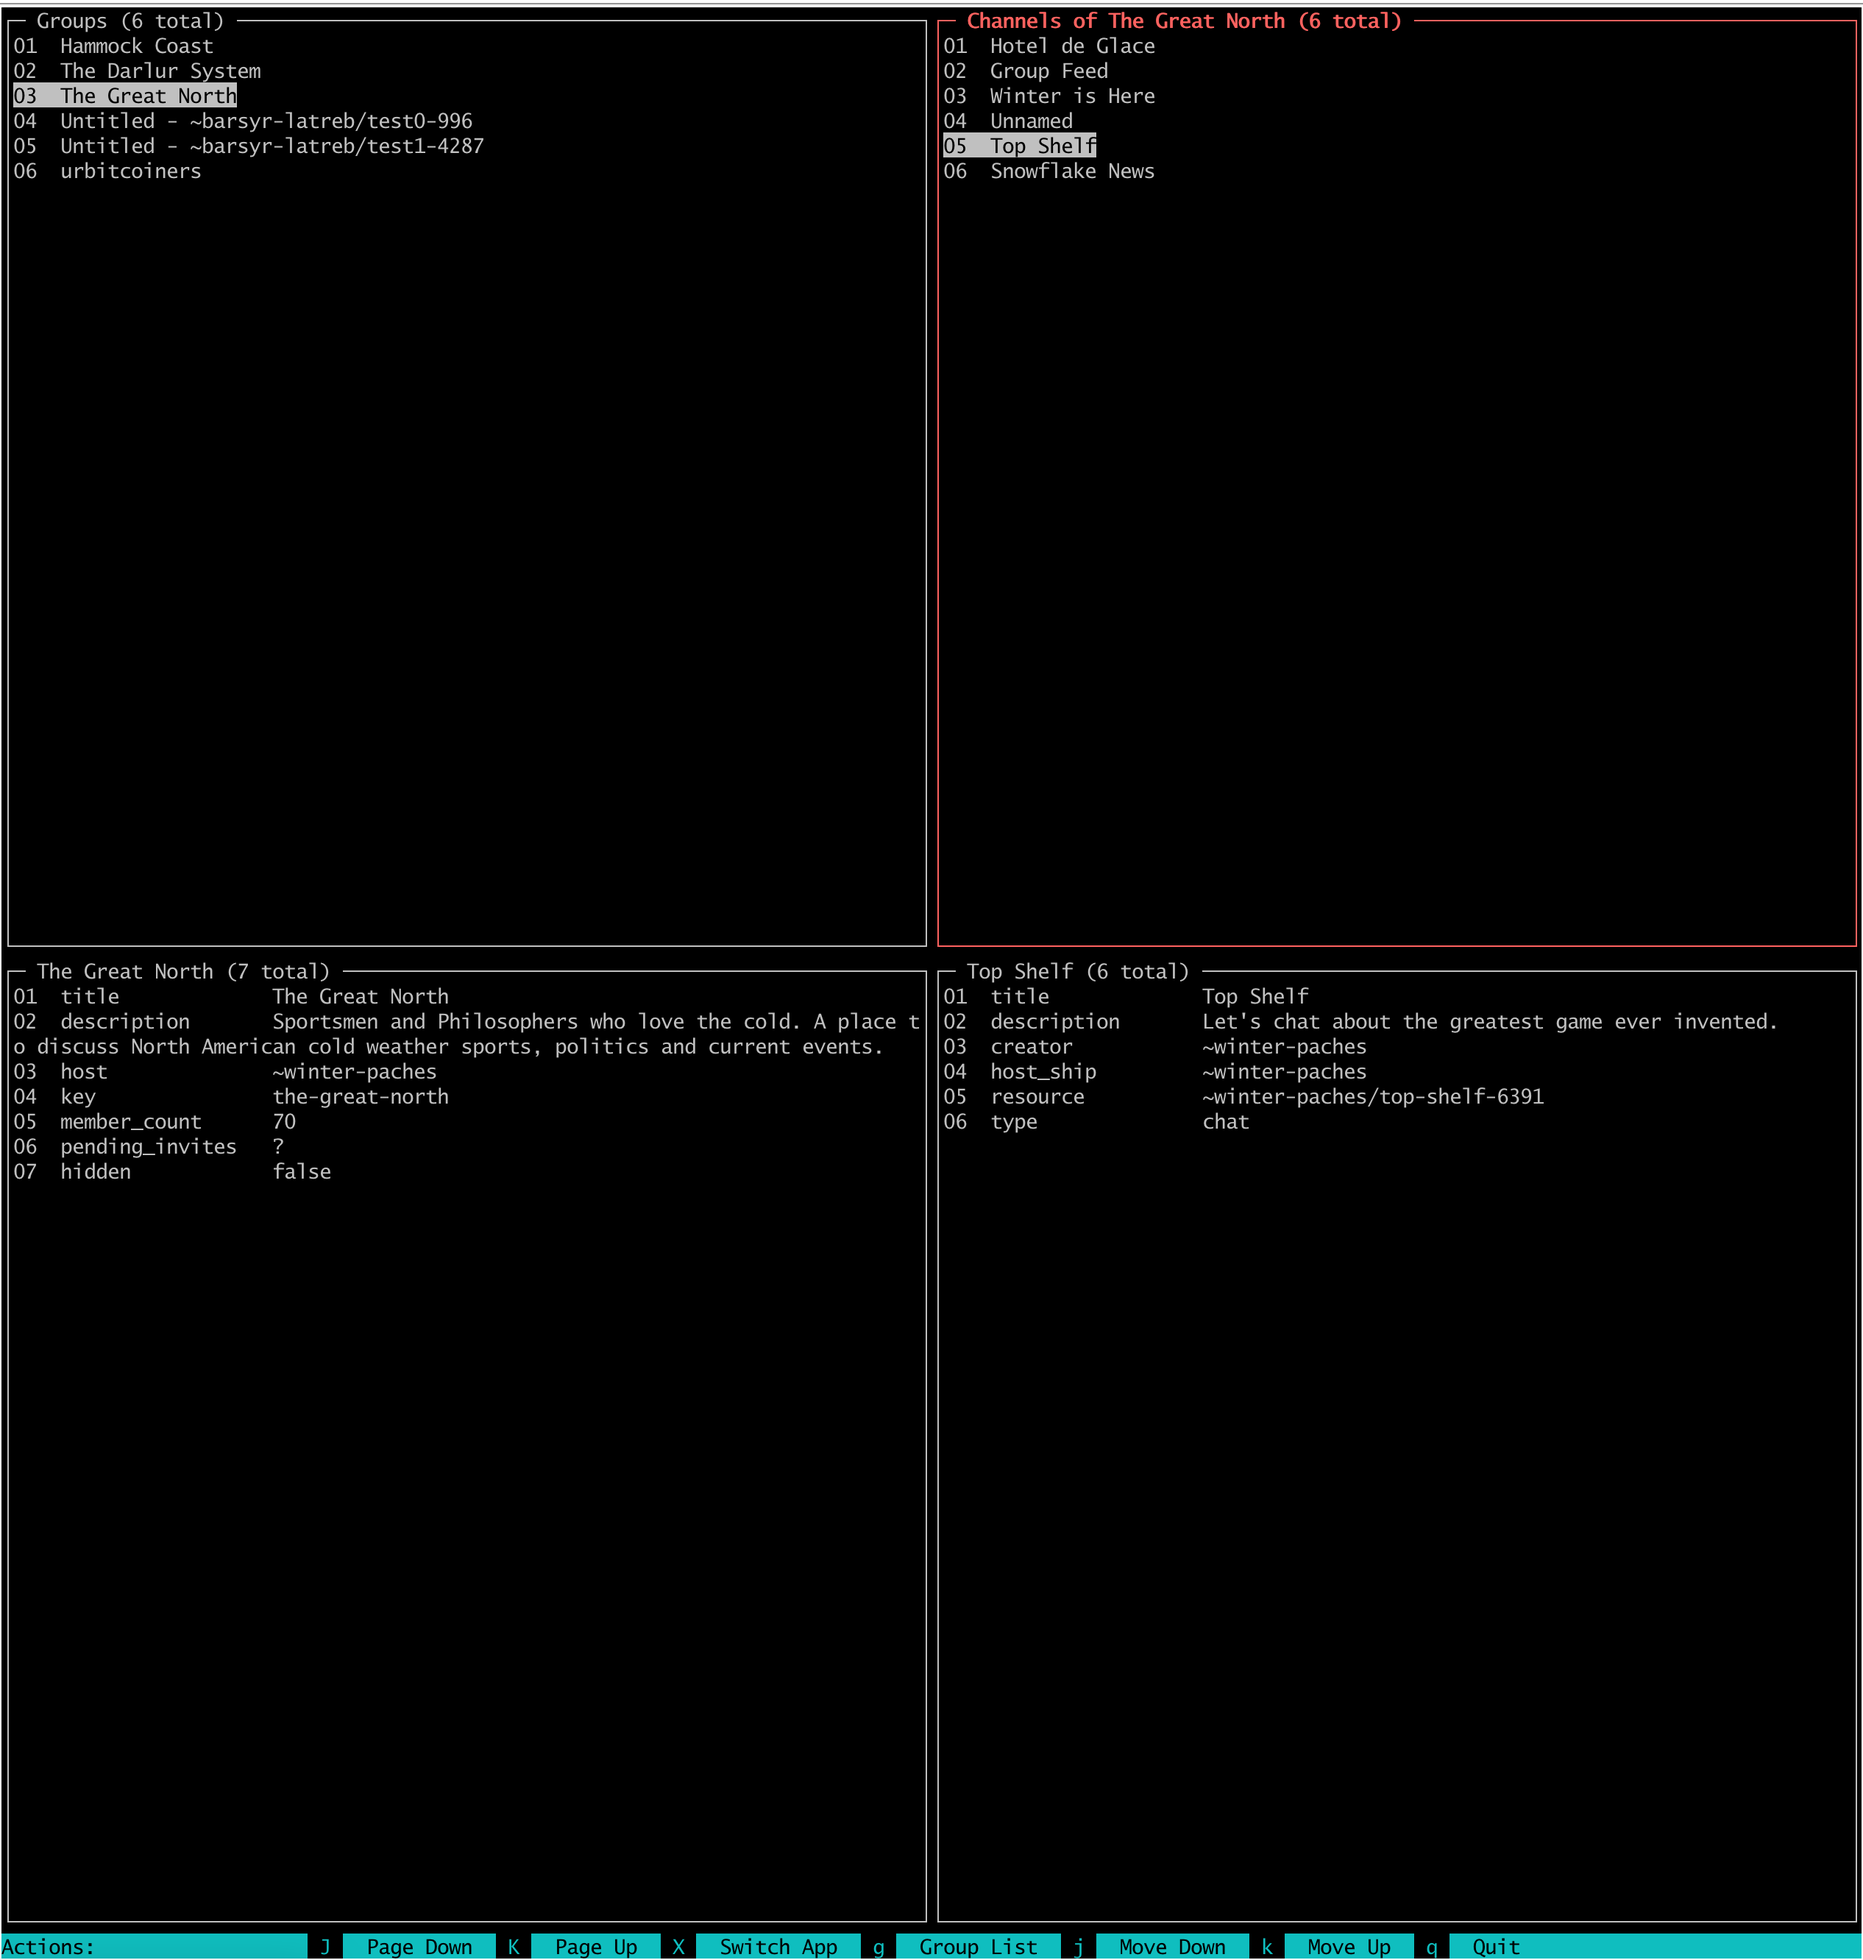
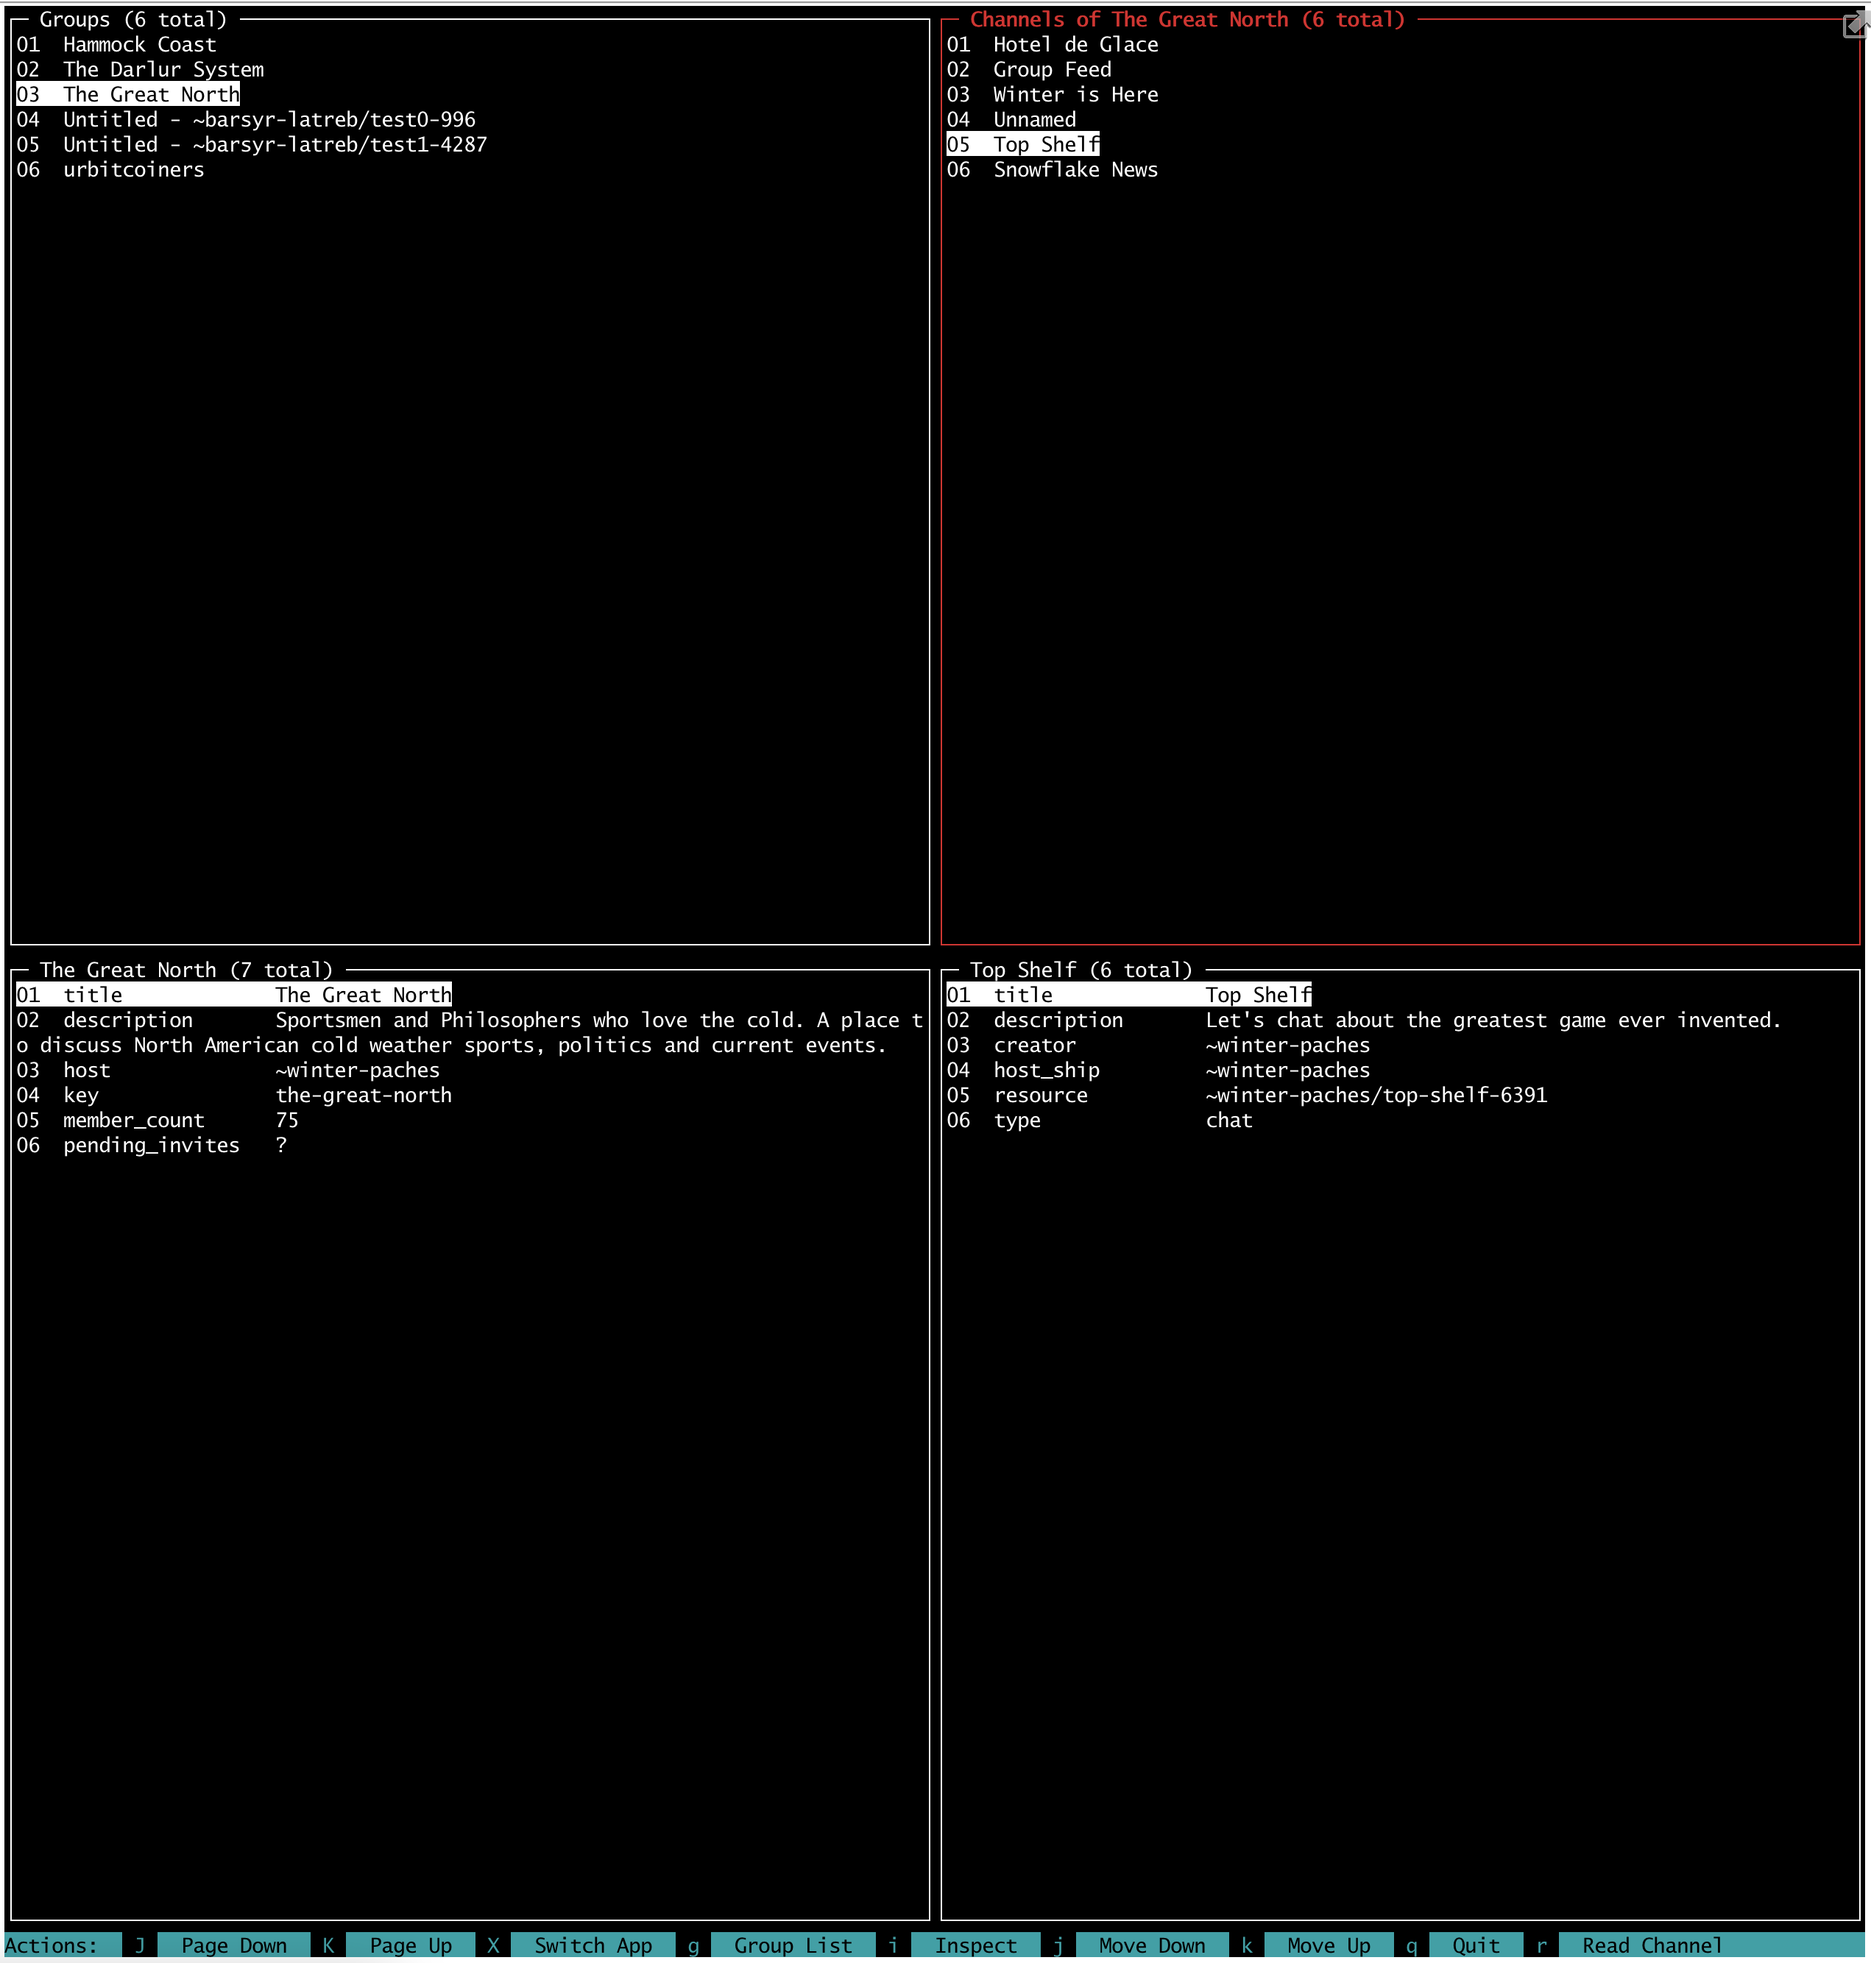
update docs

Changed region(s): [[0.0, 0.0, 1.0, 1.0], [0.4056, 0.4673, 0.936, 0.592]]

diff --git a/README.md b/README.md
@@ -48,13 +48,20 @@ Properties of the group are displayed below in the Group details pane.
 
 From here you can choose a group by moving up (k) and down (j) using vim-style motion or jump immediately by typing the row number (04).
 The channel list pane will change automatically as you change the group.
+
 Use "Inspect" (i) to select a group and move the focus to the channel list pane.
 
 ![Channel List](screenshots/channel-list-pane.png)
 
 Properties of the channel are displayed below in the Channel details pane.
 
-By pressing "Switch App" (X) you will swap to the Graph Explorer with the graph list pane highlighted in red:
+#### Social Lounge (Chat Reader)
+
+Use "Read" (r) to read the latest messages of the currently selected channel.
+
+**NOTE**: This is currently slow and will take a couple of seconds to pop up. There is no caching or performance improvements of any kind yet. Furthermore, quite a bit of the parsing logic is still here in mb10 when it should be in the airlock itself. Expect this to improve in the future.
+
+![Channel List](screenshots/channel-reader-pane.png)
 
 #### Graph Explorer
 
@@ -69,6 +76,10 @@ If, as shown in the picture, the node you as inspecting has children, you can "D
 ![Graph Explorer](screenshots/node-list-pane-dive.png)
 
 Use "Pop" (p) to return to the parent node. You can return focus to the graph list pane by pressing (g).
+
+#### Changing your view
+
+By pressing "Switch App" (X) you will swap between the Social Lounge (Reader), the Graph Explorer, and the Group Explorer.
 
 ## Contributing
 
